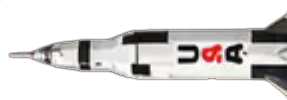
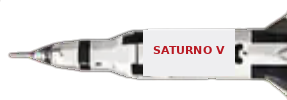
Cohete dice SATURNO V, acrobático con dos loops grandes
Claude-Session: https://claude.ai/code/session_01HzcLU7UAVJ8SL338GQnGNt

Changed region(s): [[0.4739, 0.27, 0.8362, 0.66], [0.4739, 0.63, 0.5296, 0.78], [0.5854, 0.75, 0.6132, 0.78]]

diff --git a/index.html b/index.html
@@ -105,8 +105,8 @@
   .scene .obj .part img.wing{position:absolute;left:0;top:0;width:100%;animation:flap ease-in-out infinite alternate}
   @keyframes flap{from{transform:scaleY(1) rotate(0)}to{transform:scaleY(.28) rotate(-4deg)}}
   .scene .obj .part img.front{position:relative;z-index:1}
-  .scene .obj .stunt{display:block;position:relative;transform-origin:50% 50%;animation:pirueta 6s ease-in-out infinite}
-  @keyframes pirueta{0%,20%{transform:rotate(0) rotateX(0)}42%{transform:rotate(-360deg) rotateX(0) translateY(-6px)}50%,62%{transform:rotate(-360deg) rotateX(0)}80%{transform:rotate(-360deg) rotateX(360deg)}100%{transform:rotate(-360deg) rotateX(360deg)}}
+  .scene .obj .stunt{display:block;position:relative;transform-origin:50% 50%;animation:pirueta 7s ease-in-out infinite}
+  @keyframes pirueta{0%,12%{transform:rotate(0) translateY(0)}24%{transform:rotate(-180deg) translateY(-22px)}36%{transform:rotate(-360deg) translateY(0)}44%{transform:rotate(-360deg) translateY(0)}56%{transform:rotate(-540deg) translateY(-22px)}68%{transform:rotate(-720deg) translateY(0)}100%{transform:rotate(-720deg) translateY(0)}} /* dos loops, campana grande */
   .scene .obj .part img.wing.back{z-index:0}
   @keyframes capa{0%{transform:skewY(-7deg) scaleY(.9)}50%{transform:skewY(2deg) scaleY(1.04) scaleX(1.03)}100%{transform:skewY(6deg) scaleY(1.08)}}
   .scene .obj .part img{display:block;width:100%;height:auto}
